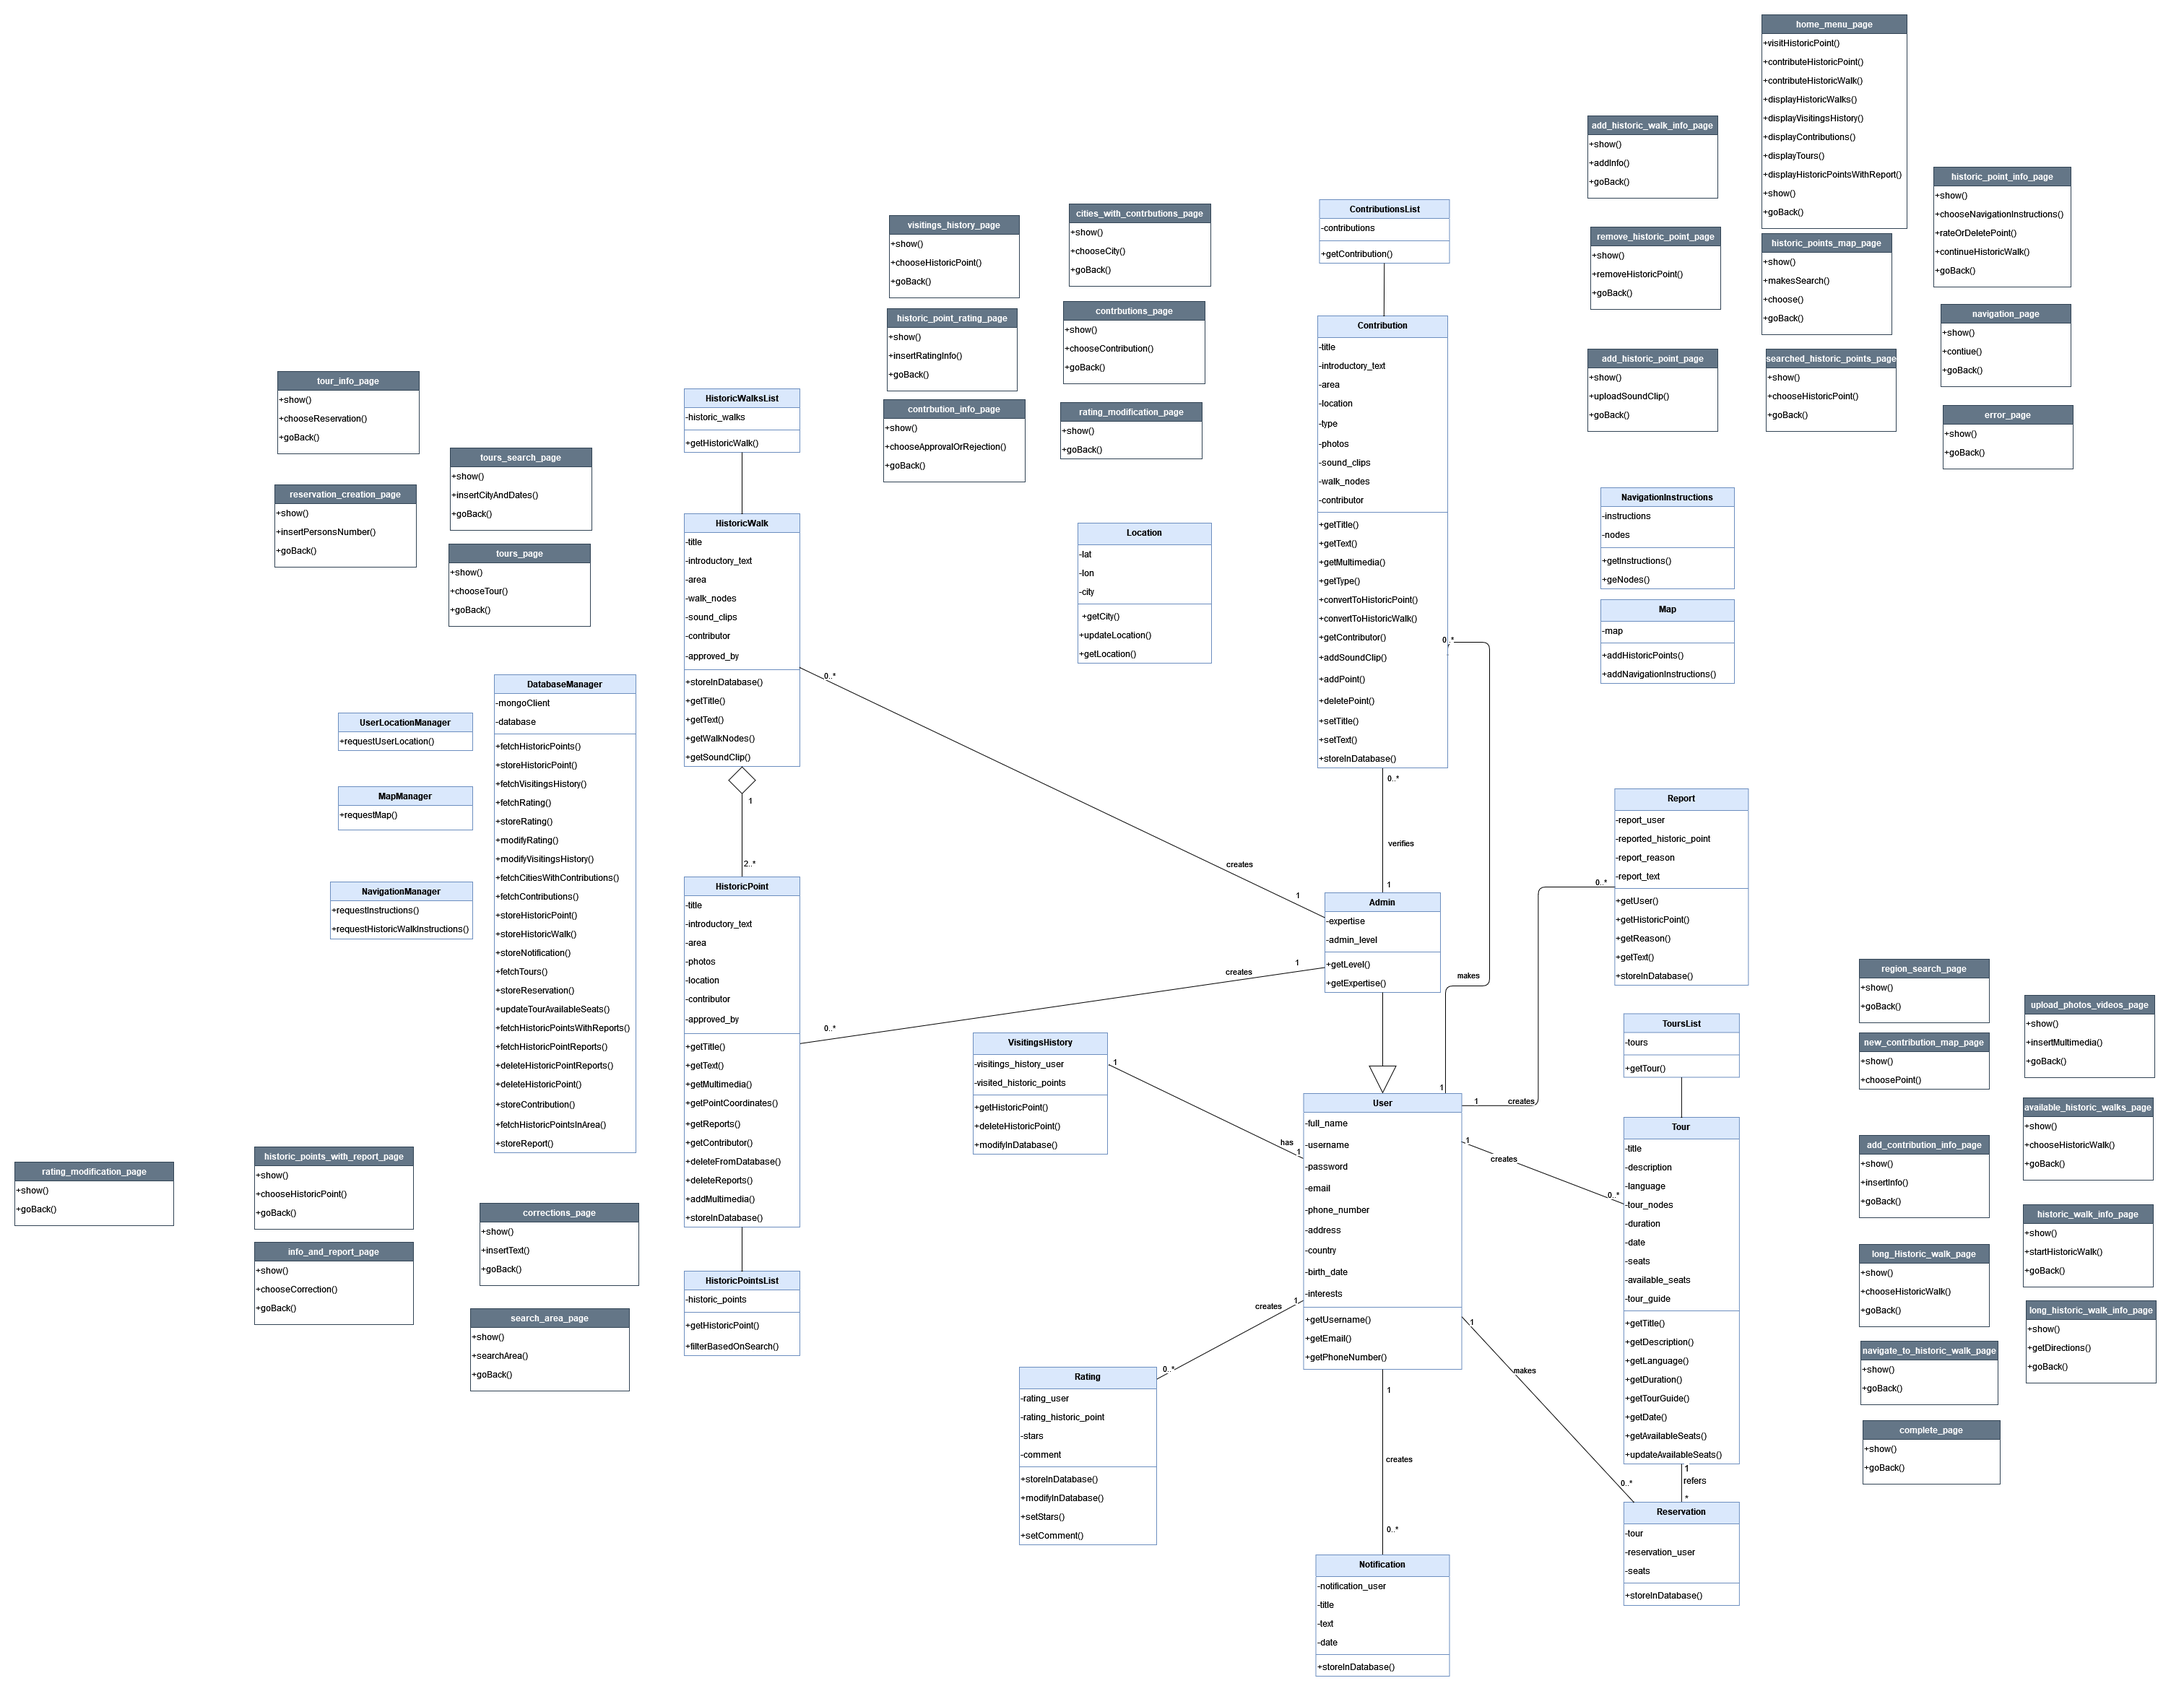
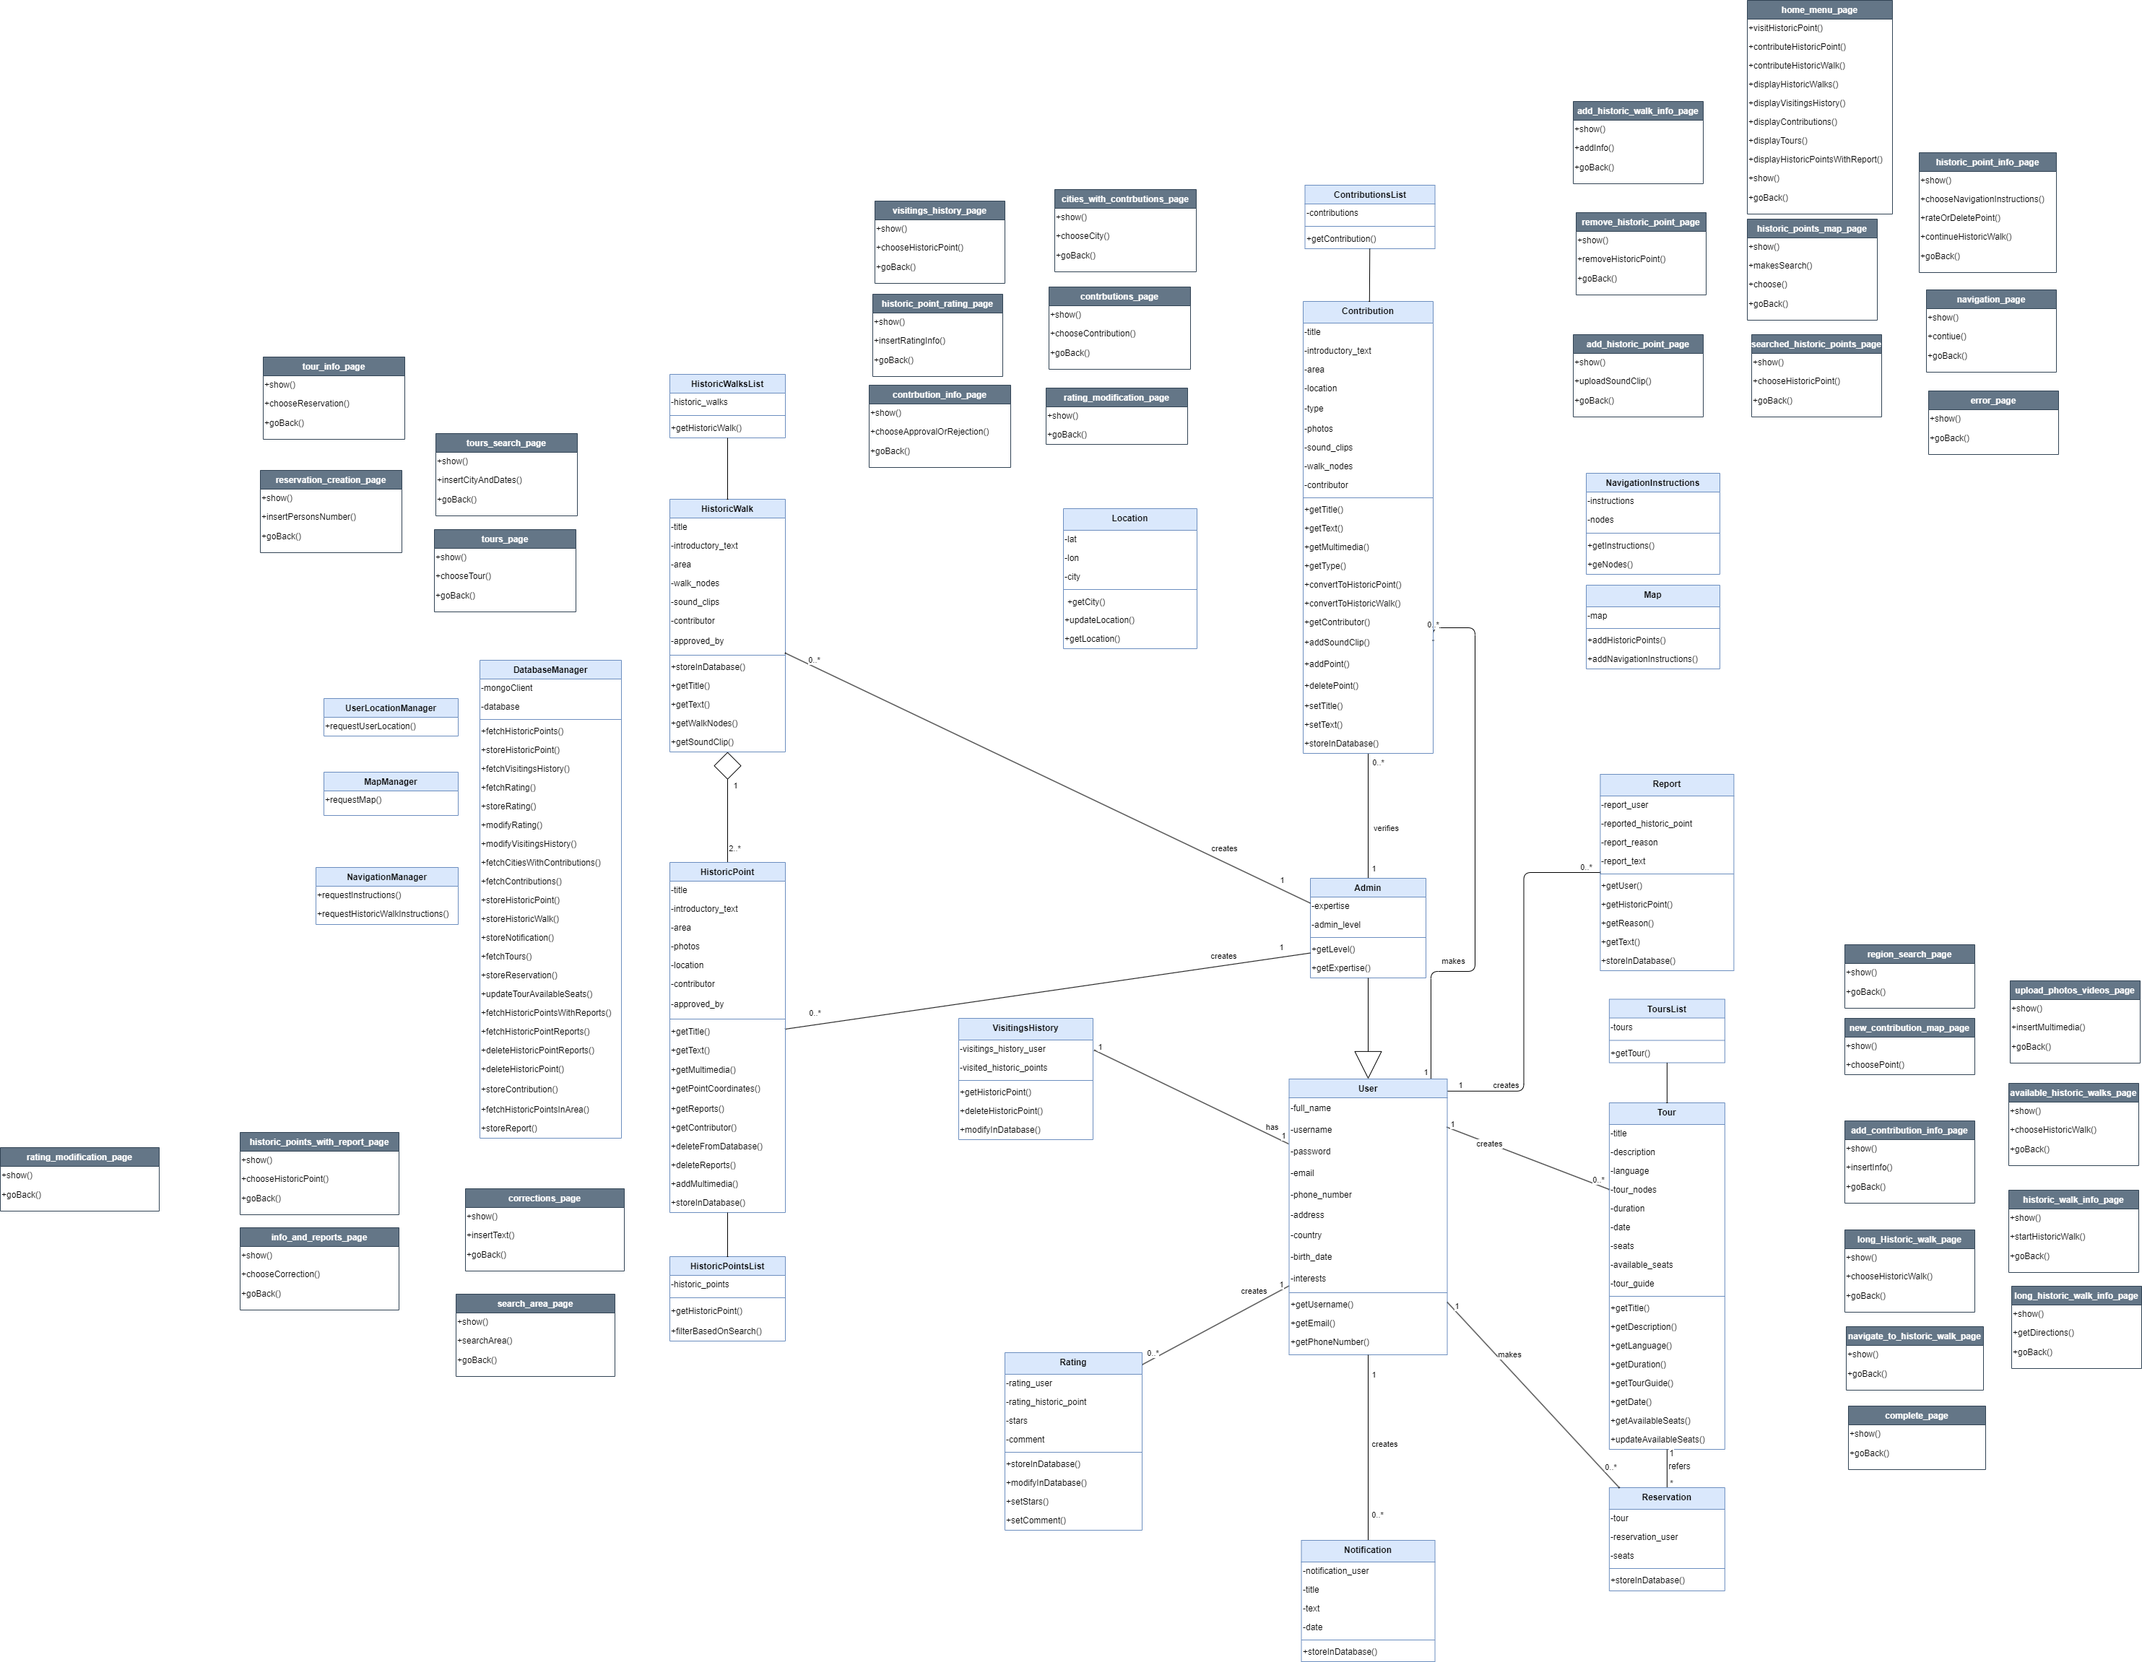
some pages as classes + change in domain and class

diff --git a/CODE/cooltoor/app/src/main/java/com/cooltoor/reservation_creation_page.java b/CODE/cooltoor/app/src/main/java/com/cooltoor/reservation_creation_page.java
@@ -1,0 +1,17 @@
+package com.cooltoor;
+
+import android.os.Bundle;
+import android.provider.ContactsContract;
+
+import androidx.activity.EdgeToEdge;
+import androidx.appcompat.app.AppCompatActivity;
+
+
+public class reservation_creation_page extends AppCompatActivity {
+    protected void onCreate(Bundle savedInstanceState) {
+        super.onCreate(savedInstanceState);
+        EdgeToEdge.enable(this);
+        setContentView(R.layout.home_menu_page); // TODO change to reservation_creation_page
+
+    }
+}

diff --git a/CODE/cooltoor/app/src/main/java/com/cooltoor/tours_search_page.java b/CODE/cooltoor/app/src/main/java/com/cooltoor/tours_search_page.java
@@ -1,0 +1,17 @@
+package com.cooltoor;
+
+import android.os.Bundle;
+import android.provider.ContactsContract;
+
+import androidx.activity.EdgeToEdge;
+import androidx.appcompat.app.AppCompatActivity;
+
+
+public class tours_search_page extends AppCompatActivity {
+    protected void onCreate(Bundle savedInstanceState) {
+        super.onCreate(savedInstanceState);
+        EdgeToEdge.enable(this);
+        setContentView(R.layout.home_menu_page); // TODO change to tours_search_page
+
+    }
+}

diff --git a/CODE/cooltoor/app/src/main/java/com/cooltoor/corrections_page.java b/CODE/cooltoor/app/src/main/java/com/cooltoor/corrections_page.java
@@ -1,0 +1,17 @@
+package com.cooltoor;
+
+import android.os.Bundle;
+import android.provider.ContactsContract;
+
+import androidx.activity.EdgeToEdge;
+import androidx.appcompat.app.AppCompatActivity;
+
+
+public class corrections_page extends AppCompatActivity {
+    protected void onCreate(Bundle savedInstanceState) {
+        super.onCreate(savedInstanceState);
+        EdgeToEdge.enable(this);
+        setContentView(R.layout.home_menu_page); // TODO change to corrections_page
+
+    }
+}

diff --git a/CODE/cooltoor/app/src/main/java/com/cooltoor/cities_with_contributions_page.java b/CODE/cooltoor/app/src/main/java/com/cooltoor/cities_with_contributions_page.java
@@ -1,0 +1,17 @@
+package com.cooltoor;
+
+import android.os.Bundle;
+import android.provider.ContactsContract;
+
+import androidx.activity.EdgeToEdge;
+import androidx.appcompat.app.AppCompatActivity;
+
+
+public class cities_with_contributions_page extends AppCompatActivity {
+    protected void onCreate(Bundle savedInstanceState) {
+        super.onCreate(savedInstanceState);
+        EdgeToEdge.enable(this);
+        setContentView(R.layout.cities_with_contributions_page);
+
+    }
+}

diff --git a/CODE/cooltoor/app/src/main/java/com/cooltoor/historic_points_with_report_page.java b/CODE/cooltoor/app/src/main/java/com/cooltoor/historic_points_with_report_page.java
@@ -1,0 +1,16 @@
+package com.cooltoor;
+
+import android.os.Bundle;
+
+import androidx.activity.EdgeToEdge;
+import androidx.appcompat.app.AppCompatActivity;
+
+
+public class historic_points_with_report_page extends AppCompatActivity {
+    protected void onCreate(Bundle savedInstanceState) {
+        super.onCreate(savedInstanceState);
+        EdgeToEdge.enable(this);
+        setContentView(R.layout.home_menu_page); // TODO change to historic_points_with_report_page
+
+    }
+}

diff --git a/CODE/cooltoor/app/src/main/java/com/cooltoor/historic_point_info_page.java b/CODE/cooltoor/app/src/main/java/com/cooltoor/historic_point_info_page.java
@@ -1,0 +1,17 @@
+package com.cooltoor;
+
+import android.os.Bundle;
+import android.provider.ContactsContract;
+
+import androidx.activity.EdgeToEdge;
+import androidx.appcompat.app.AppCompatActivity;
+
+
+public class historic_point_info_page extends AppCompatActivity {
+    protected void onCreate(Bundle savedInstanceState) {
+        super.onCreate(savedInstanceState);
+        EdgeToEdge.enable(this);
+        setContentView(R.layout.historic_point_info_page);
+
+    }
+}

diff --git a/CODE/cooltoor/app/src/main/java/com/cooltoor/rating_modification_page.java b/CODE/cooltoor/app/src/main/java/com/cooltoor/rating_modification_page.java
@@ -1,0 +1,17 @@
+package com.cooltoor;
+
+import android.os.Bundle;
+import android.provider.ContactsContract;
+
+import androidx.activity.EdgeToEdge;
+import androidx.appcompat.app.AppCompatActivity;
+
+
+public class rating_modification_page extends AppCompatActivity {
+    protected void onCreate(Bundle savedInstanceState) {
+        super.onCreate(savedInstanceState);
+        EdgeToEdge.enable(this);
+        setContentView(R.layout.rating_modification_page);
+
+    }
+}

diff --git a/CODE/cooltoor/app/src/main/java/com/cooltoor/contribution_info_page.java b/CODE/cooltoor/app/src/main/java/com/cooltoor/contribution_info_page.java
@@ -1,0 +1,17 @@
+package com.cooltoor;
+
+import android.os.Bundle;
+import android.provider.ContactsContract;
+
+import androidx.activity.EdgeToEdge;
+import androidx.appcompat.app.AppCompatActivity;
+
+
+public class contribution_info_page extends AppCompatActivity {
+    protected void onCreate(Bundle savedInstanceState) {
+        super.onCreate(savedInstanceState);
+        EdgeToEdge.enable(this);
+        setContentView(R.layout.contribution_info_page);
+
+    }
+}

diff --git a/CODE/cooltoor/app/src/main/java/com/cooltoor/info_and_reports_page.java b/CODE/cooltoor/app/src/main/java/com/cooltoor/info_and_reports_page.java
@@ -1,0 +1,17 @@
+package com.cooltoor;
+
+import android.os.Bundle;
+import android.provider.ContactsContract;
+
+import androidx.activity.EdgeToEdge;
+import androidx.appcompat.app.AppCompatActivity;
+
+
+public class info_and_reports_page extends AppCompatActivity {
+    protected void onCreate(Bundle savedInstanceState) {
+        super.onCreate(savedInstanceState);
+        EdgeToEdge.enable(this);
+        setContentView(R.layout.info_and_reports_page);
+
+    }
+}

diff --git a/CODE/cooltoor/app/src/main/java/com/cooltoor/tours_page.java b/CODE/cooltoor/app/src/main/java/com/cooltoor/tours_page.java
@@ -1,0 +1,17 @@
+package com.cooltoor;
+
+import android.os.Bundle;
+import android.provider.ContactsContract;
+
+import androidx.activity.EdgeToEdge;
+import androidx.appcompat.app.AppCompatActivity;
+
+
+public class tours_page extends AppCompatActivity {
+    protected void onCreate(Bundle savedInstanceState) {
+        super.onCreate(savedInstanceState);
+        EdgeToEdge.enable(this);
+        setContentView(R.layout.tours_page);
+
+    }
+}
